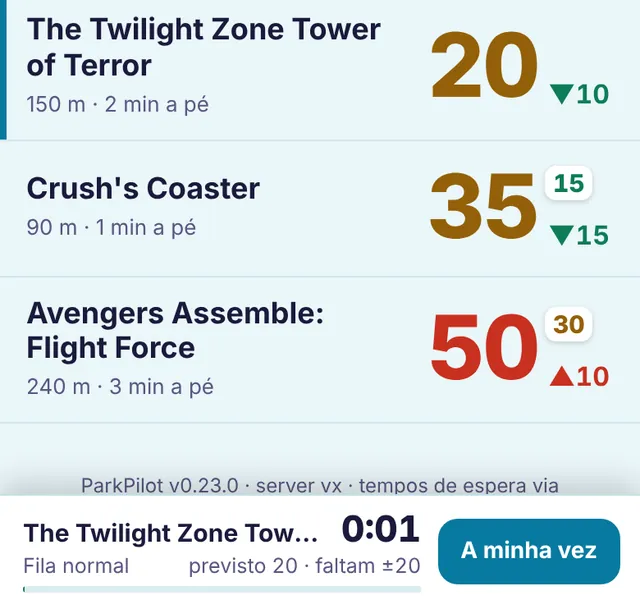
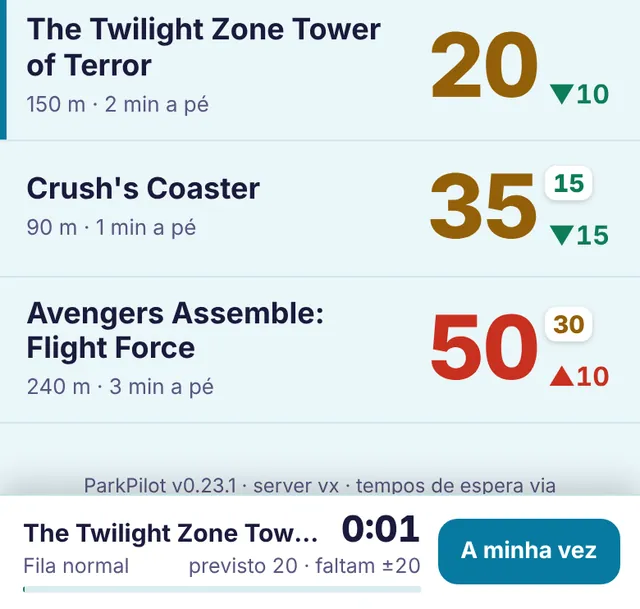
0.23.1: beheer-app met OpenStreetMap-kaart en versienummer altijd in beeld
Claude-Session: https://claude.ai/code/session_01LXXgKK2boSXQse7LLAQNxZ

Changed region(s): [[0.125, 0.78, 0.875, 0.8112]]

diff --git a/apps/web/public/admin.html b/apps/web/public/admin.html
@@ -73,8 +73,11 @@
   .chip.warn { border-color: var(--warn); color: var(--warn); }
   .chip.bad { border-color: var(--bad); color: var(--bad); }
   .map { display: block; width: 100%; height: auto; margin: 10px 0 4px; border-radius: 10px; background: rgba(127,127,127,.1); touch-action: manipulation; }
-  .map .lbl { font: 600 11px system-ui, -apple-system, sans-serif; fill: var(--muted); }
-  .map .scale { stroke: var(--muted); stroke-width: 2; }
+  .map { aspect-ratio: 340 / 220; background: #e8e4dc; }
+  .map .lbl { font: 700 11px system-ui, -apple-system, sans-serif; fill: #1b2328; paint-order: stroke; stroke: #fff; stroke-width: 3px; stroke-linejoin: round; }
+  .map .att { font: 600 10px system-ui, -apple-system, sans-serif; fill: #1b2328; }
+  @media (prefers-color-scheme: dark) { .map .tiles { filter: brightness(.82) contrast(1.05); } }
+  .ver { margin: -2px 0 8px; }
   .legend { display: flex; flex-wrap: wrap; gap: 4px 14px; font-size: .82rem; color: var(--muted); }
   .legend i { display: inline-block; width: 10px; height: 10px; border-radius: 50%; margin-right: 5px; vertical-align: 0; }
   .maplinks { display: flex; flex-wrap: wrap; gap: 6px 18px; margin: 8px 0 2px; font-size: .92rem; }
@@ -96,6 +99,7 @@
 <body>
 <a class="apps-back" href="/">‹ ParkPilot</a>
 <h1>Beheer</h1>
+<p class="small muted ver" id="ver">Versie …</p>
 <p class="muted">Kijkplekken controleren en meldingen voor ParkPilot.</p>
 
 <form id="login">
@@ -188,64 +192,89 @@ function setBadge(n) {
 }
 
 // ---- Kaartje: eigen SVG, zonder kaartbibliotheek. Noorden boven, schaal in meters. -------------------
-const COL = { new: "#f0a43a", cur: "#43b96d", prev: "#93a0a8", near: "#93a0a8" };
+const COL = { new: "#f08a1a", cur: "#23914b", prev: "#6b7780" };
+// Kaart: tegels van OpenStreetMap (tile.openstreetmap.org) in een SVG, zonder kaartbibliotheek. Web-Mercator,
+// noorden boven. Bij zoom < 19 tegels van één niveau dieper op halve grootte, zodat het scherp is op een iPhone.
+// Gebruiksregels OSM: naamsvermelding verplicht, licht gebruik (hier: alleen de beheerder), niets vooraf ophalen.
+const TILE = 256, MAXZ = 19;
+const wx = (lng, z) => (lng + 180) / 360 * TILE * 2 ** z;
+const wy = (lat, z) => { const r = lat * Math.PI / 180; return (1 - Math.log(Math.tan(r) + 1 / Math.cos(r)) / Math.PI) / 2 * TILE * 2 ** z; };
 function miniMap(it) {
-  const W = 340, H = 220, PX = 24, TOP = 22, BOT = 36; // onderin ruimte voor de schaal en het noorden
+  const W = 340, H = 220, PAD = 26;
   const target = it.lat != null ? { lat: it.lat, lng: it.lng, accuracy: it.accuracy } : null;
   const same = (a, b) => a && b && a.lat === b.lat && a.lng === b.lng;
   // Bij "nieuw" is de plek in gebruik meestal deze inzending zelf: dan één punt.
   const cur = it.current && !same(it.current, target) ? it.current : null;
   const prev = it.prev && !same(it.prev, it.current) && !same(it.prev, target) ? it.prev : null;
   const main = [target, cur, prev].filter(Boolean);
-  const anchor = main[0];
-  if (!anchor) return "";
+  if (!main.length && it.current) main.push(it.current);
+  if (!main.length) return "";
   // Attracties en shows uit de bron ter oriëntatie: de dichtstbijzijnde, en altijd minstens twee.
   const near = it.nearby.filter((n, i) => i < 2 || n.d < 250).slice(0, 5);
-  const k = Math.cos(anchor.lat * Math.PI / 180);
-  const xy = (p) => [(p.lng - anchor.lng) * 111320 * k, (p.lat - anchor.lat) * 110540];
-  const all = [...main, ...near].map(xy);
-  for (const p of main) if (p.accuracy) { const [x, y] = xy(p); all.push([x - p.accuracy, y - p.accuracy], [x + p.accuracy, y + p.accuracy]); } // cirkels passen erin
-  const minX = Math.min(...all.map((p) => p[0])), maxX = Math.max(...all.map((p) => p[0]));
-  const minY = Math.min(...all.map((p) => p[1])), maxY = Math.max(...all.map((p) => p[1]));
-  const aw = W - 2 * PX, ah = H - TOP - BOT;
-  const s = Math.min(aw / Math.max(maxX - minX, 60), ah / Math.max(maxY - minY, 60)); // pixels per meter
-  const cx = (minX + maxX) / 2, cy = (minY + maxY) / 2;
-  const P = (p) => { const [x, y] = xy(p); return [W / 2 + (x - cx) * s, TOP + ah / 2 - (y - cy) * s]; };
+  const mPerPx19 = (lat) => 156543.03392 * Math.cos(lat * Math.PI / 180) / 2 ** MAXZ;
+  // Omvang in wereldpixels op zoom 19, met de nauwkeurigheidscirkels erbij.
+  const pts = [];
+  for (const p of [...main, ...near]) {
+    const x = wx(p.lng, MAXZ), y = wy(p.lat, MAXZ), r = (p.accuracy || 0) / mPerPx19(p.lat);
+    pts.push([x - r, y - r], [x + r, y + r]);
+  }
+  const minX = Math.min(...pts.map((p) => p[0])), maxX = Math.max(...pts.map((p) => p[0]));
+  const minY = Math.min(...pts.map((p) => p[1])), maxY = Math.max(...pts.map((p) => p[1]));
+  const fit = Math.max((maxX - minX) / (W - 2 * PAD), (maxY - minY) / (H - 2 * PAD - 14), 1); // onderin ruimte voor schaal en naamsvermelding
+  // Zoom mag tussen twee niveaus vallen: tegels van niveau z, iets vergroot (sc), zodat alles de kaart vult.
+  const zf = Math.max(12, Math.min(MAXZ, MAXZ - Math.log2(fit)));
+  const z = Math.floor(zf), sc = 2 ** (zf - z);
+  const k = 2 ** (MAXZ - z) / sc; // wereldpixels op 19 per schermpixel
+  const cx = (minX + maxX) / 2 / k, cy = (minY + maxY) / 2 / k; // midden in schermpixels
+  const ox = cx - W / 2, oy = cy - H / 2 + 8;
+  const P = (p) => [wx(p.lng, z) * sc - ox, wy(p.lat, z) * sc - oy];
+  // Tegels: één niveau dieper als dat kan (scherp op retina).
+  const tz = Math.min(MAXZ, z + 1), ts = TILE / 2 ** (tz - z) * sc;
+  let tiles = "";
+  const n = 2 ** tz;
+  for (let tx = Math.floor(ox / ts); tx * ts < ox + W; tx++) {
+    for (let ty = Math.floor(oy / ts); ty * ts < oy + H; ty++) {
+      if (ty < 0 || ty >= n) continue;
+      tiles += `<image href="https://tile.openstreetmap.org/${tz}/${((tx % n) + n) % n}/${ty}.png" x="${(tx * ts - ox).toFixed(1)}" y="${(ty * ts - oy).toFixed(1)}" width="${ts + 0.5}" height="${ts + 0.5}"/>`;
+    }
+  }
   const pins = main.map(P);
   let g = "";
-  for (const n of near) {
-    const [x, y] = P(n);
-    g += `<circle cx="${x.toFixed(1)}" cy="${y.toFixed(1)}" r="4" fill="${COL.near}" opacity=".8"/>`;
+  for (const nb of near) {
+    const [x, y] = P(nb);
+    g += `<circle cx="${x.toFixed(1)}" cy="${y.toFixed(1)}" r="4.5" fill="#5c6970" stroke="#fff" stroke-width="1.5"/>`;
     const right = x < W / 2;
-    // Niet over een hoofdpunt heen: dan het label eronder.
     const hit = pins.some(([px, py]) => Math.abs(py - y) < 13 && (right ? px > x && px - x < 140 : px < x && x - px < 140));
     const ly = hit ? y + 16 : y + 4;
-    const name = n.name.length > 20 ? n.name.slice(0, 19) + "…" : n.name;
-    g += `<text class="lbl" x="${(right ? x + 7 : x - 7).toFixed(1)}" y="${ly.toFixed(1)}" text-anchor="${right ? "start" : "end"}">${esc(name)}</text>`;
+    const name = nb.name.length > 20 ? nb.name.slice(0, 19) + "…" : nb.name;
+    g += `<text class="lbl" x="${(right ? x + 8 : x - 8).toFixed(1)}" y="${ly.toFixed(1)}" text-anchor="${right ? "start" : "end"}">${esc(name)}</text>`;
   }
   const dot = (p, col) => {
     const [x, y] = P(p);
-    const r = Math.max(6, (p.accuracy ?? 0) * s);
-    return `<circle cx="${x.toFixed(1)}" cy="${y.toFixed(1)}" r="${r.toFixed(1)}" fill="${col}" fill-opacity=".14" stroke="${col}" stroke-opacity=".6"/>`
-      + `<circle cx="${x.toFixed(1)}" cy="${y.toFixed(1)}" r="6" fill="${col}" stroke="#fff" stroke-width="2"/>`;
+    const r = Math.max(7, (p.accuracy ?? 0) / (mPerPx19(p.lat) * k));
+    return `<circle cx="${x.toFixed(1)}" cy="${y.toFixed(1)}" r="${r.toFixed(1)}" fill="${col}" fill-opacity=".18" stroke="${col}" stroke-width="1.5"/>`
+      + `<circle cx="${x.toFixed(1)}" cy="${y.toFixed(1)}" r="7" fill="${col}" stroke="#fff" stroke-width="2.5"/>`;
   };
   if (prev) g += dot(prev, COL.prev);
   if (cur) g += dot(cur, COL.cur);
-  if (target && cur) { const [a, b] = P(cur), [c, d] = P(target); g += `<line x1="${a.toFixed(1)}" y1="${b.toFixed(1)}" x2="${c.toFixed(1)}" y2="${d.toFixed(1)}" stroke="${COL.new}" stroke-dasharray="4 4" stroke-width="2"/>`; }
+  if (target && cur) { const [a, b] = P(cur), [c, d] = P(target); g += `<line x1="${a.toFixed(1)}" y1="${b.toFixed(1)}" x2="${c.toFixed(1)}" y2="${d.toFixed(1)}" stroke="${COL.new}" stroke-dasharray="5 4" stroke-width="2.5"/>`; }
   if (target) g += dot(target, COL.new);
   if (!target && it.current) g += dot(it.current, COL.cur); // verwijderverzoek: de plek die weg zou gaan
   // Schaalstreep: een rond getal van ongeveer een kwart van de breedte.
-  const want = (W / 4) / s;
-  const nice = [5, 10, 20, 25, 50, 100, 200, 250, 500, 1000].find((v) => v >= want * .6) || 1000;
-  const len = nice * s;
-  g += `<line class="scale" x1="12" y1="${H - 12}" x2="${(12 + len).toFixed(1)}" y2="${H - 12}"/><text class="lbl" x="${(17 + len).toFixed(1)}" y="${H - 8}">${nice} m</text>`;
-  g += `<text class="lbl" x="${W - 12}" y="${H - 8}" text-anchor="end">noorden ↑</text>`;
+  const mpp = mPerPx19(main[0].lat) * k;
+  const nice = [5, 10, 20, 25, 50, 100, 200, 250, 500, 1000].find((v) => v / mpp >= W / 7) || 1000;
+  const len = nice / mpp;
+  g += `<rect x="6" y="${H - 24}" width="${(len + 52).toFixed(1)}" height="18" rx="4" fill="#fff" fill-opacity=".8"/>`
+    + `<line x1="12" y1="${H - 12}" x2="${(12 + len).toFixed(1)}" y2="${H - 12}" stroke="#1b2328" stroke-width="2"/>`
+    + `<text class="att" x="${(17 + len).toFixed(1)}" y="${H - 11}">${nice} m</text>`;
+  g += `<a href="https://www.openstreetmap.org/copyright" target="_blank"><rect x="${W - 126}" y="${H - 16}" width="126" height="16" fill="#fff" fill-opacity=".8"/>`
+    + `<text class="att" x="${W - 4}" y="${H - 4.5}" text-anchor="end">© OpenStreetMap-bijdragers</text></a>`;
   const curInUse = it.current && same(it.current, target);
   const leg = [target ? `<span><i style="background:${COL.new}"></i>${it.kind === "new" ? (curInUse ? "nieuwe plek, al in gebruik" : "nieuwe plek") : "voorstel"}</span>` : "",
     cur || (!target && it.current) ? `<span><i style="background:${COL.cur}"></i>nu in gebruik${it.current.confirmed ? " (bevestigd)" : " (onbevestigd)"}</span>` : "",
     prev ? `<span><i style="background:${COL.prev}"></i>stond er bij inzenden</span>` : "",
-    near.length ? `<span><i style="background:${COL.near};opacity:.8"></i>uit de bron</span>` : ""].join("");
-  return `<svg class="map" viewBox="0 0 ${W} ${H}" role="img" aria-label="Kaartje van de plek">${g}</svg><div class="legend">${leg}<span>cirkel = gps-nauwkeurigheid</span></div>`;
+    near.length ? `<span><i style="background:#5c6970"></i>uit de bron</span>` : ""].join("");
+  return `<svg class="map" viewBox="0 0 ${W} ${H}" role="img" aria-label="Kaart van de plek"><g class="tiles">${tiles}</g>${g}</svg><div class="legend">${leg}<span>cirkel = gps-nauwkeurigheid</span></div>`;
 }
 
 const KIND = { new: "Nieuw", replace: "Vervangen", delete: "Verwijderen" };
@@ -300,6 +329,7 @@ function render() {
   }
   $("out").innerHTML = html;
   $("foot").textContent = `ParkPilot ${d.version}`;
+  $("ver").textContent = `Versie ${d.version}`;
   $("out").querySelectorAll("[data-note]").forEach((b) => b.onclick = () => {
     const el = $(b.dataset.note); el.hidden = !el.hidden; b.setAttribute("aria-expanded", String(!el.hidden));
   });
@@ -418,6 +448,10 @@ if ("serviceWorker" in navigator) {
   });
 }
 document.addEventListener("visibilitychange", () => { if (document.visibilityState === "visible" && token) load(); });
+
+// Versienummer altijd zichtbaar, ook zonder in te loggen (framework: zichtbaar versienummer).
+fetch("/api/health", { cache: "no-store" }).then((r) => r.json()).then((h) => { $("ver").textContent = `Versie ${h.version}`; })
+  .catch(() => { $("ver").textContent = "Versie onbekend (geen verbinding)"; });
 
 // Start: onthouden wachtwoord gebruiken.
 try { token = localStorage.getItem(KEY) || sessionStorage.getItem(KEY) || ""; } catch (_) { token = ""; }

diff --git a/apps/web/src/changelog.ts b/apps/web/src/changelog.ts
@@ -8,6 +8,13 @@ export interface ChangelogEntry { version: string; date?: string; changes: strin
 
 export const CHANGELOG: ChangelogEntry[] = [
   {
+    version: '0.23.1',
+    date: '2026-11-23',
+    changes: ['Beheer: kaart van OpenStreetMap bij elke kijkplek die gecontroleerd moet worden, en het versienummer altijd in beeld.'],
+    en: ['Admin: an OpenStreetMap map with every viewing spot to check, and the version number always visible.'],
+    pt: ['Administração: mapa do OpenStreetMap em cada ponto de observação a verificar, e o número da versão sempre visível.'],
+  },
+  {
     version: '0.23.0',
     date: '2026-11-23',
     changes: [

diff --git a/packages/shared/src/version.ts b/packages/shared/src/version.ts
@@ -1,2 +1,2 @@
 /** Eén bron voor het versienummer; app en server tonen dit allebei. Verhoog bij elke oplevering. */
-export const APP_VERSION = '0.23.0';
+export const APP_VERSION = '0.23.1';

diff --git a/HANDOVER.md b/HANDOVER.md
@@ -1,6 +1,6 @@
 # ParkPilot: overdrachtsdocument
 
-Eerste versie 21 november 2026. **Laatst bijgewerkt: 23 november 2026, 22:45** (zie logboek, hoofdstuk 16). Doel: een nieuwe Claude-chat, ook in een ander account, kan hiermee zonder voorkennis verder bouwen. Alles wat nodig is staat hier of in de repo. Lees dit eerst helemaal, vooral de hoofdstukken 2, 3, 4.1, 12 en **15**.
+Eerste versie 21 november 2026. **Laatst bijgewerkt: 23 november 2026, 22:55** (zie logboek, hoofdstuk 16). Doel: een nieuwe Claude-chat, ook in een ander account, kan hiermee zonder voorkennis verder bouwen. Alles wat nodig is staat hier of in de repo. Lees dit eerst helemaal, vooral de hoofdstukken 2, 3, 4.1, 12 en **15**.
 
 **Vaste afspraak:** Claude werkt dit document bij na elke wijziging, beslissing of nieuwe kennis, in dezelfde beurt, zowel in het claude.ai-project "ParkPilot" (`claude/ParkPilot-HANDOVER.md`) als in de repo (`HANDOVER.md`). Wat Claude leert over Remco's werkwijze en voorkeuren, en alles wat hij een "framework feature" noemt, gaat naar hoofdstuk 15.
 
@@ -14,7 +14,7 @@ Eerste versie 21 november 2026. **Laatst bijgewerkt: 23 november 2026, 22:45** (
 - **Live:** https://parkpilot.remco-dv.workers.dev
 - **Repo:** https://github.com/RemcoNLD/parkpilot (publiek). Cloudflare Workers Builds bouwt en deployt automatisch bij elke commit.
 - **Stack:** Vite + TypeScript (vanilla, geen framework) · één Cloudflare Worker (API + statische assets) · Cloudflare D1 (SQLite) · live data van ThemeParks.wiki.
-- **Versie in de code:** `0.23.0` (23 nov 2026 ~22:45): kijkplekken alleen in het park en met ±50 m of beter; nieuwe plek onbevestigd in gebruik, vervangen/verwijderen pas na akkoord; **beheer-app** `/admin.html` met pushberichten (6.15). Daarvoor `0.22.3` (23 nov 2026 ~22:05): regel onder de naam "▼ −5 · @24 min geleden", bevestigd weg uit de rij, veranderd nooit recenter dan de bron (6.2). Daarvoor `0.22.2` (23 nov 2026 ~21:35): grafiek verspringt niet meer na bijwerken (6.5). Daarvoor `0.22.1` (23 nov 2026 ~21:10): uitlegteksten uit beeld naar Help (15.4 punt 15), "veranderd … / bevestigd …" (6.2), detailvenster van een show vanuit een andere dag (6.4), onleesbare verwachte tijd bij gevolgde show. Daarvoor `0.22.0` (23 nov 2026, gepusht naar `main` om ~20:42, commit 9012567): rondleiding begint met welkom + koppelcode en de keuze Meteen beginnen / Rondleiding (6.12); bezette eigen code → vraag om dat lijstje te openen (6.12); detailvenster opnieuw geordend met "Over deze cijfers" ingeklapt (6.4). Daarvoor `0.21.2`, gepusht naar `main` op 23 nov 2026 ~18:50: menu (☰) linksboven met uitklapmenu eronder, op de EVailability-manier (6.2, 15.3 punt 16). Daarvoor 0.21.1: storingstabel sorteerbaar via de kop (6.13). Daarvoor 0.21.0: langdurig dicht → Onderhoud (6.14) en storingen van vandaag als compacte tabel (6.13). Daarvoor 0.20.0 (storingen als tijdlijnen, door Remco afgekeurd) en 0.19.0 (commit a08faa6): grijs bij een stille bron (6.5b), rondleiding met schermafbeeldingen (6.12), menuknop ☰, waarschuwingen bij de koppelcode. Daarvoor 0.18.1 (grafiek opening–sluiting) en 0.18.0 (rondleiding, help, stippellijn). Nog niet door Remco bevestigd. 0.9.0 (single rider) bevestigd met "Werkt".
+- **Versie in de code:** `0.23.1` (23 nov 2026 ~22:55): beheer-app met OpenStreetMap-kaart en versienummer altijd in beeld (6.15). Daarvoor `0.23.0` (23 nov 2026 ~22:45): kijkplekken alleen in het park en met ±50 m of beter; nieuwe plek onbevestigd in gebruik, vervangen/verwijderen pas na akkoord; **beheer-app** `/admin.html` met pushberichten (6.15). Daarvoor `0.22.3` (23 nov 2026 ~22:05): regel onder de naam "▼ −5 · @24 min geleden", bevestigd weg uit de rij, veranderd nooit recenter dan de bron (6.2). Daarvoor `0.22.2` (23 nov 2026 ~21:35): grafiek verspringt niet meer na bijwerken (6.5). Daarvoor `0.22.1` (23 nov 2026 ~21:10): uitlegteksten uit beeld naar Help (15.4 punt 15), "veranderd … / bevestigd …" (6.2), detailvenster van een show vanuit een andere dag (6.4), onleesbare verwachte tijd bij gevolgde show. Daarvoor `0.22.0` (23 nov 2026, gepusht naar `main` om ~20:42, commit 9012567): rondleiding begint met welkom + koppelcode en de keuze Meteen beginnen / Rondleiding (6.12); bezette eigen code → vraag om dat lijstje te openen (6.12); detailvenster opnieuw geordend met "Over deze cijfers" ingeklapt (6.4). Daarvoor `0.21.2`, gepusht naar `main` op 23 nov 2026 ~18:50: menu (☰) linksboven met uitklapmenu eronder, op de EVailability-manier (6.2, 15.3 punt 16). Daarvoor 0.21.1: storingstabel sorteerbaar via de kop (6.13). Daarvoor 0.21.0: langdurig dicht → Onderhoud (6.14) en storingen van vandaag als compacte tabel (6.13). Daarvoor 0.20.0 (storingen als tijdlijnen, door Remco afgekeurd) en 0.19.0 (commit a08faa6): grijs bij een stille bron (6.5b), rondleiding met schermafbeeldingen (6.12), menuknop ☰, waarschuwingen bij de koppelcode. Daarvoor 0.18.1 (grafiek opening–sluiting) en 0.18.0 (rondleiding, help, stippellijn). Nog niet door Remco bevestigd. 0.9.0 (single rider) bevestigd met "Werkt".
 - **Beheer-app (sinds 0.23.0):** https://parkpilot.remco-dv.workers.dev/admin.html, eigen beginscherm-app "PP Beheer" met pushberichten, alleen voor Remco (wachtwoord). Zie 6.15.
 - **Rondleiding en help (sinds 0.18.0):** zie 6.12. De menuknop **linksboven** (☰, sinds 0.21.2; daarvoor rechtsboven, tot 0.19.0 een tandwiel) klapt eronder open met Instellingen / Help / Rondleiding.
 - **Bij elke nieuwe versie:** nummer ophogen in `version.ts` + `package.json` **én** een regel toevoegen bovenaan `apps/web/src/changelog.ts` (in de app: Instellingen > Wat is er nieuw), in het Nederlands (`changes`), Engels (`en`) én Portugees (`pt`), datum als `JJJJ-MM-DD`. Korte, gewone taal, gericht op wat Remco ziet.
@@ -358,8 +358,9 @@ Doet alsof je in het park staat ("Ik sta bij …"): park open, eigen locatie, ve
 - Remco (22:12): "Maak mijn deel in een admin app. Zorg dat die push berichten krijgt voor updates of dingen die ik moet controleren. Baseer de admin app op die van EVailability qua design en opzet."
 - **Waar:** `apps/web/public/admin.html` (één bestand, gewone JS, geen build-stap; Nederlands, alleen voor de beheerder) + `admin-sw.js` (scope `/admin`, alleen push) + `admin.webmanifest` ("PP Beheer", eigen id, start `/admin.html`) + eigen icoon (P met groen vinkje, `admin-icon-*.png`, `admin-touch-icon.png`). Op de iPhone: Safari › `/admin.html` › Deel › Zet op beginscherm. Pushberichten werken op de iPhone alleen in die beginscherm-app (iOS 16.4+).
 - **Opzet en ontwerp van EVailability** (repo RemcoNLD/apps, `admin.html`, `admin-sw.js`, push in `src/evailability-worker.js`): zelfde kleuren (donker/licht via systeem), kaarten, "‹ ParkPilot" terug, wachtwoord + "Onthoud me", Vernieuwen/Uitloggen, sectie Meldingen (aan/uit per toestel, test, toestellen verwijderen).
+- **Versienummer** (sinds 0.23.1): onder de titel "Versie X", ook zonder in te loggen (uit `/api/health`), en onderaan.
 - **Inloggen:** beheerderswachtwoord (Remco heeft het, staat niet in de repo). In `worker/src/admin.ts` staat alleen de SHA-256 van `parkpilot-admin:<wachtwoord>` (`ADMIN_HASH`). Wijzigen zonder code: Worker-geheim `ADMIN_PASSWORD` in het Cloudflare-dashboard (gaat voor). Hoofdletters maken niet uit. 10 foute pogingen per uur per IP, daarna 429.
-- **Te controleren:** per inzending een kaart met soort (Nieuw/Vervangen/Verwijderen), show, park, wanneer, wie (`profiel 3f2a` · naam bij het spelletje als die er is · aantal inzendingen/goedgekeurd), chips (±N m, afstand tot de vorige, rand van het park, onnauwkeurig), een **eigen SVG-kaartje** (noorden boven, schaal, nieuwe plek oranje, plek in gebruik groen, vorige grijs, nauwkeurigheidscirkels, dichtstbijzijnde bronlocaties met naam) en links naar **Apple Kaarten (satelliet)** en Google Maps. Knoppen **Akkoord** / **Afwijzen**; "Wat gebeurt er?" (i) per soort. Daaronder "Laatst beslist" (30).
+- **Te controleren:** per inzending een kaart met soort (Nieuw/Vervangen/Verwijderen), show, park, wanneer, wie (`profiel 3f2a` · naam bij het spelletje als die er is · aantal inzendingen/goedgekeurd), chips (±N m, afstand tot de vorige, rand van het park, onnauwkeurig), een **kaart met OpenStreetMap-tegels** (sinds 0.23.1; Remco 22:35: "Kun je in-app kaartje tonen? OSM heeft toch wel map tiles?"): tegels van `tile.openstreetmap.org` als `<image>` in een SVG, eigen Web-Mercator-rekenwerk, geen Leaflet of andere bibliotheek (`miniMap()` in `admin.html`). Zoom past zich aan de punten en nauwkeurigheidscirkels aan (ook tussen twee zoomniveaus in, tot 19), tegels één niveau dieper op halve grootte voor scherpte op de iPhone; donker thema dimt de tegels. Daarop: nieuwe plek oranje, plek in gebruik groen, vorige grijs, nauwkeurigheidscirkels, dichtstbijzijnde bronlocaties met naam (witte rand voor leesbaarheid), schaalstreep en verplichte naamsvermelding "© OpenStreetMap-bijdragers" (link). OSM-gebruiksregels: licht gebruik en naamsvermelding; hier alleen de beheerder, dus prima. OSM heeft geen satellietbeeld, daarom blijft de link naar Apple Kaarten (satelliet). Zonder bereik: grijze achtergrond met de punten. Voor de gewone app (bijv. kijkplek kiezen of slepen, fase 4) kan dezelfde aanpak zonder Leaflet; bij veel gebruikers dan een andere tegelaanbieder overwegen en links naar **Apple Kaarten (satelliet)** en Google Maps. Knoppen **Akkoord** / **Afwijzen**; "Wat gebeurt er?" (i) per soort. Daaronder "Laatst beslist" (30).
   - Akkoord nieuw = bevestigd; afwijzen nieuw = plek weer weg (als hij nog in gebruik is). Akkoord vervangen = deze plek wordt de bevestigde plek; afwijzen = niets. Akkoord verwijderen = weg.
 - **Pushberichten** (`worker/src/push.ts`, Web Push zonder npm, overgenomen van EVailability; VAPID-sleutel maakt de Worker zelf bij het eerste gebruik en bewaart hem in D1): bij elke inzending ("Nieuwe kijkplek: <show>", met ±N m, afstand en het aantal te controleren; app-badge met dat aantal) en één keer per nieuwe versie (cron, `notifyNewVersion()`: "ParkPilot 0.23.0 staat live"). Tik op een bericht opent de beheer-app bij Te controleren. Het allereerste versiebericht na de deploy van 0.23.0 wordt bewust overgeslagen (alleen onthouden). Een mislukte build geeft geen bericht (dan draait de nieuwe Worker niet).
 - `sw.js` van de gewone app laat `/admin…` nu met rust; anders zou het openen van de beheer-app de bewaarde app-schil vervangen.
@@ -431,6 +432,8 @@ Doet alsof je in het park staat ("Ik sta bij …"): park open, eigen locatie, ve
 - **Testbranch `claude/koppeltest`** staat nog op GitHub (Claude kan geen branches verwijderen). Remco kan hem verwijderen via GitHub → Branches.
 
 **0.10.0 (21 nov 2026), door Remco te controleren:** knop "Gezien", regel "Afgestreept (N)", past de balk met drie knoppen nog op zijn scherm.
+
+**0.23.1 (23 nov 2026), door Remco te controleren:** versie onder "Beheer" (ook uitgelogd); OSM-kaart bij elke inzending scherp en leesbaar op de iPhone, ook donker? (Echte tegels niet door Claude gezien: de sandbox kan OSM niet bereiken; getest met neptegels.)
 
 **0.23.0 (23 nov 2026), door Remco te controleren:** beheer-app op het beginscherm zetten, inloggen, meldingen aan + Stuur test (komt het bericht?); de twee bestaande kijkplekken (Goofy, Elsa en Anna) staan als Nieuw te controleren: kaartje en satellietlink bruikbaar? In het park: kijkplek vastleggen (lopende nauwkeurigheid, "Te onnauwkeurig" boven 50 m, weigert buiten het park ten onrechte?). Het spot-menu in de app is alleen getypecheckt, niet in een screenshot bekeken.
 
@@ -587,7 +590,7 @@ Claude vult dit aan zodra iets nieuws blijkt. Geldt **voor elke app** van Remco.
    - Eén attribuut op het root-element (`data-theme="light|dark"`); alle kleuren als CSS custom properties per thema. Tweede attribuut (bij ParkPilot `data-park`) voor een accent per context.
    - iOS-PWA: statusbalk `black-translucent` met eigen `.statusbar`-div.
    - Code: `apps/web/src/theme.ts` + `style.css`. **Nog te controleren:** thema vóór eerste render (geen witte flits) en meeveranderende `<meta name="theme-color">`.
-2. **Zichtbaar versienummer** op drie plekken, uit één bron, ook via `/api/health`; elke levering ophogen. In Instellingen als **knop "Versie X · zoek update"** die geforceerd op een update controleert en zo nodig herlaadt (`checkForUpdate()`, vergelijkt `/api/health` met de app-versie). *(**Bevestigd door Remco als framework feature, 21 nov 2026.**)*
+2. **Zichtbaar versienummer** op drie plekken, uit één bron, ook via `/api/health`; elke levering ophogen. **Ook in elke bijbehorende pagina of app (beheer-app, hulppagina's), altijd zichtbaar, ook vóór inloggen.** *(Letterlijk door Remco, 23 nov 2026 22:35: "Voeg een versienummer toe en maak dat onderdeel van het framework zodat het in de toekomst altijd gebeurt." Aanleiding: de beheer-app toonde de versie pas na inloggen, onderaan.)* In Instellingen als **knop "Versie X · zoek update"** die geforceerd op een update controleert en zo nodig herlaadt (`checkForUpdate()`, vergelijkt `/api/health` met de app-versie). *(**Bevestigd door Remco als framework feature, 21 nov 2026.**)*
 3. **Tekstgrootte Compact/Comfortabel** ("Aa", ~20%, onthouden). *(Afgeleid.)*
 4. **Mobile-first PWA** met offline app-schil. *(Afgeleid.)*
 5. **`store`-helper** voor localStorage met try/catch en app-prefix. *(Afgeleid.)*
@@ -622,7 +625,7 @@ Claude vult dit aan zodra iets nieuws blijkt. Geldt **voor elke app** van Remco.
    - Open-stand in een variabele bewaren als het scherm zichzelf ververst, anders klapt het menu dicht onder je vinger.
    - Code-voorbeelden: `evailability.html` (repo RemcoNLD/apps, `.menu-wrap`) en ParkPilot `menuButton()` in `main.ts` + CSS `.menu*`.
 
-17. **Beheer-app op de EVailability-manier.** *(Afgeleid uit Remco's verzoek van 23 nov 2026 22:12: "Baseer de admin app op die van EVailability qua design en opzet"; nog bevestigen of dit voor elke app geldt.)* Aparte pagina `admin.html` met eigen manifest, eigen icoon en eigen service worker (scope `/admin`) zodat het een eigen beginscherm-app is; wachtwoord met "Onthoud me"; kaarten in de EVailability-stijl; sectie Meldingen met Web Push (VAPID-sleutel door de Worker zelf gemaakt, nooit in Git), test-knop en toestellenlijst; pushbericht bij alles wat de beheerder moet doen en bij een nieuwe versie. Wachtwoord nooit in een publieke repo: alleen een hash, met een Worker-geheim als vervanging. Code: ParkPilot `apps/web/public/admin.html`, `worker/src/push.ts`, `worker/src/admin.ts`.
+17. **Beheer-app op de EVailability-manier.** *(Afgeleid uit Remco's verzoek van 23 nov 2026 22:12: "Baseer de admin app op die van EVailability qua design en opzet"; nog bevestigen of dit voor elke app geldt.)* Aparte pagina `admin.html` met eigen manifest, eigen icoon en eigen service worker (scope `/admin`) zodat het een eigen beginscherm-app is; wachtwoord met "Onthoud me"; kaarten in de EVailability-stijl; sectie Meldingen met Web Push (VAPID-sleutel door de Worker zelf gemaakt, nooit in Git), test-knop en toestellenlijst; pushbericht bij alles wat de beheerder moet doen en bij een nieuwe versie; versienummer bovenaan, ook vóór inloggen (punt 2); kaarten met OpenStreetMap-tegels in een SVG zonder bibliotheek (ParkPilot 0.23.1). Wachtwoord nooit in een publieke repo: alleen een hash, met een Worker-geheim als vervanging. Code: ParkPilot `apps/web/public/admin.html`, `worker/src/push.ts`, `worker/src/admin.ts`.
 
 ### 15.4 Ontwerpregels voor elke app (vanaf de eerste versie)
 *(Op verzoek van Remco, 21 nov 2026 14:14: "Zorg dat dit soort design keuzes in de framework instructies opgenomen worden. Het instellingenscherm nu echt prettig maar was dat niet." Bedoeling: deze keuzes meteen goed doen in een nieuwe app, niet pas na een paar rondes.)* Alles hieronder is in ParkPilot door Remco gevraagd of goedgekeurd.
@@ -648,6 +651,7 @@ Claude vult dit aan zodra iets nieuws blijkt. Geldt **voor elke app** van Remco.
 ## 16. Logboek
 
 - **21 nov 2026, ochtend:** overdrachtsdocument opgesteld (einde vorige bouwsessie).
+- **23 nov 2026, 22:55 — versie 0.23.1:** Remco (22:35): versienummer erbij en als framework vastleggen; in-app kaartje met OSM-tegels. Gebouwd: versie altijd zichtbaar in de beheer-app (framework 15.3 punt 2 uitgebreid), OSM-kaart zonder bibliotheek (6.15). Patch. 42 × ok; screenshots met neptegels (donker/licht); rondleidingsafbeeldingen opnieuw. Niet op een iPhone, echte tegels niet gezien.
 - **23 nov 2026, 22:45 — versie 0.23.0:** Remco (22:05) vroeg een plan om kijkplekken te verbeteren (controle in het park, ver van de bekende plek, alleen bepaalde mensen, controle door hem op een kaart, zelf pins plaatsen); plan gegeven (stond tijdelijk als `claude/ParkPilot-plan-locaties.md`, nu verwerkt in 6.8 en backlog 12). Remco (22:12): "Koppel de repos. Bouw en deploy fase 1. Maak mijn deel in een admin app … push berichten … Baseer de admin app op die van EVailability" + keuzes (zie 6.8). Gebouwd: parkgrens + nauwkeurigheid + inzendingen (6.8), beheer-app met push (6.15), migratie 0008, framework 15.3 punt 17. Minor (nieuwe functies). 42 × ok; screenshots beheer-app donker/licht; 48 rondleidingsafbeeldingen opnieuw (versienummer). Niet op een iPhone.
 - **23 nov 2026, 22:05 — versie 0.22.3:** Remco (21:41): veranderd recenter dan bevestigd kan niet; één regel met twee iconen. Eerst zo gebouwd; Remco (21:54) wilde het anders: "@24 min geleden", bevestigd weg, zelfde versienummer. Zie 6.2. Patch. 38 × ok; screenshot donker/nl. Niet op een iPhone.
 - **23 nov 2026, 21:35 — versie 0.22.2:** Remco (21:26, drie stills uit een video): grafiek springt na laden van de bewaarde stand naar de nieuwe. Oorzaak en oplossing in 6.5. Patch. 38 × ok; screenshots `history` donker/nl en licht/pt. Niet op een iPhone.
